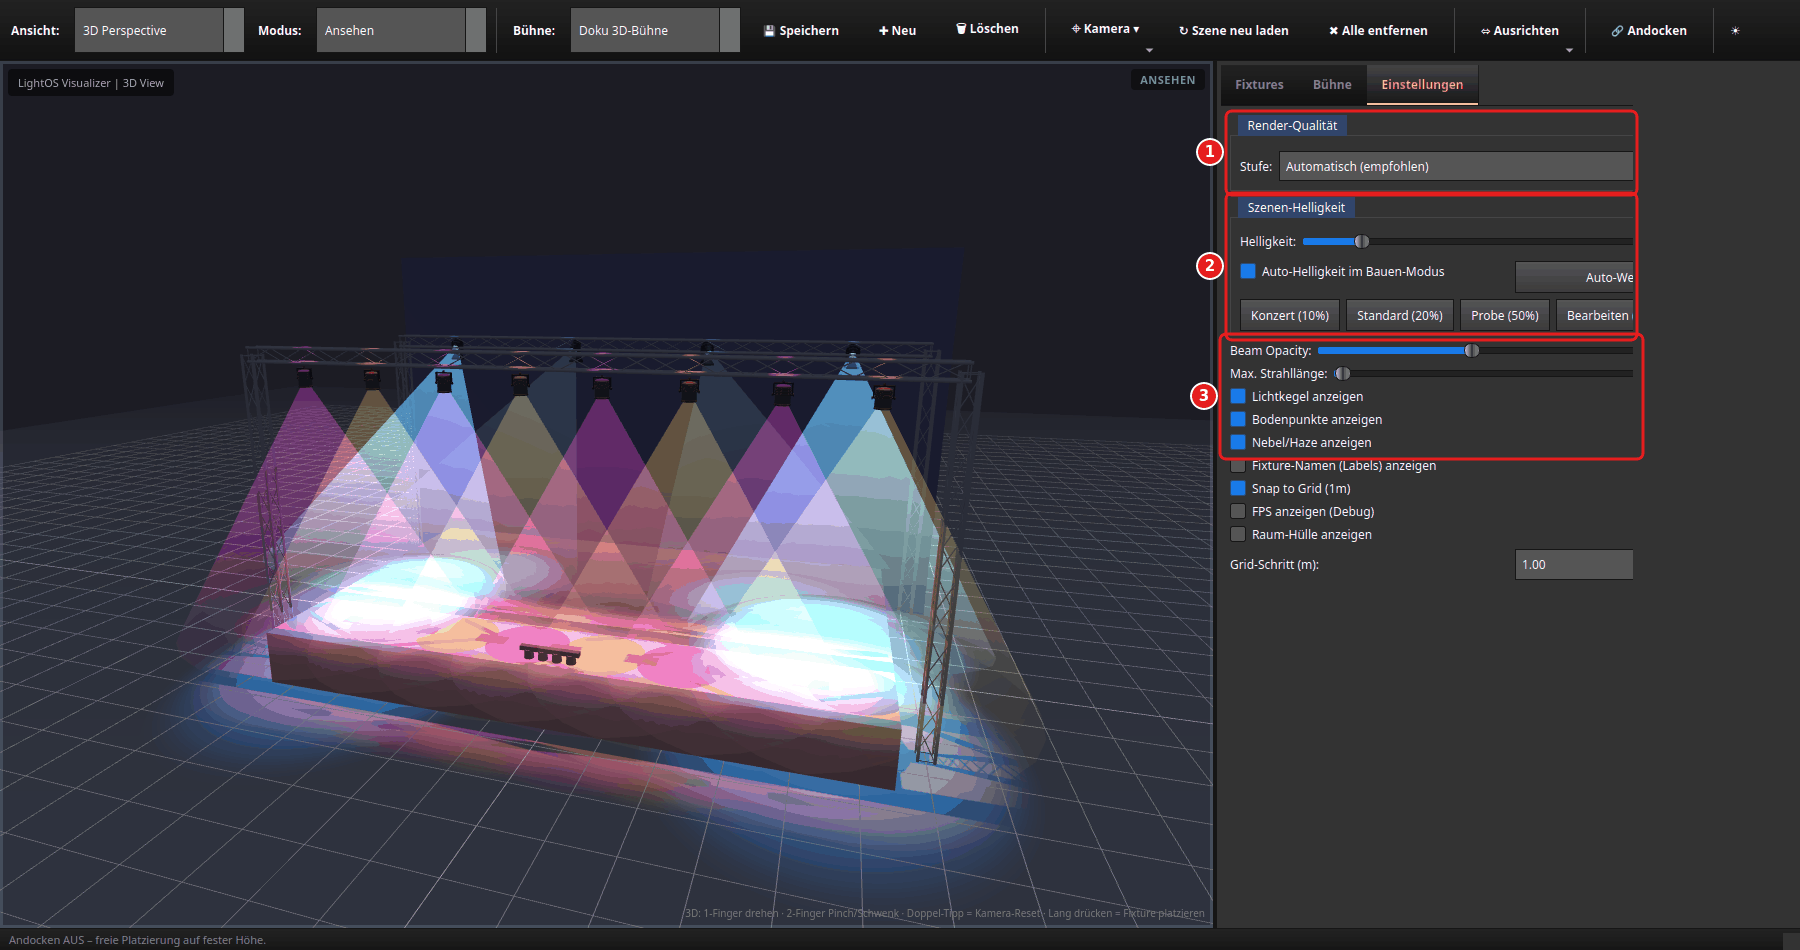
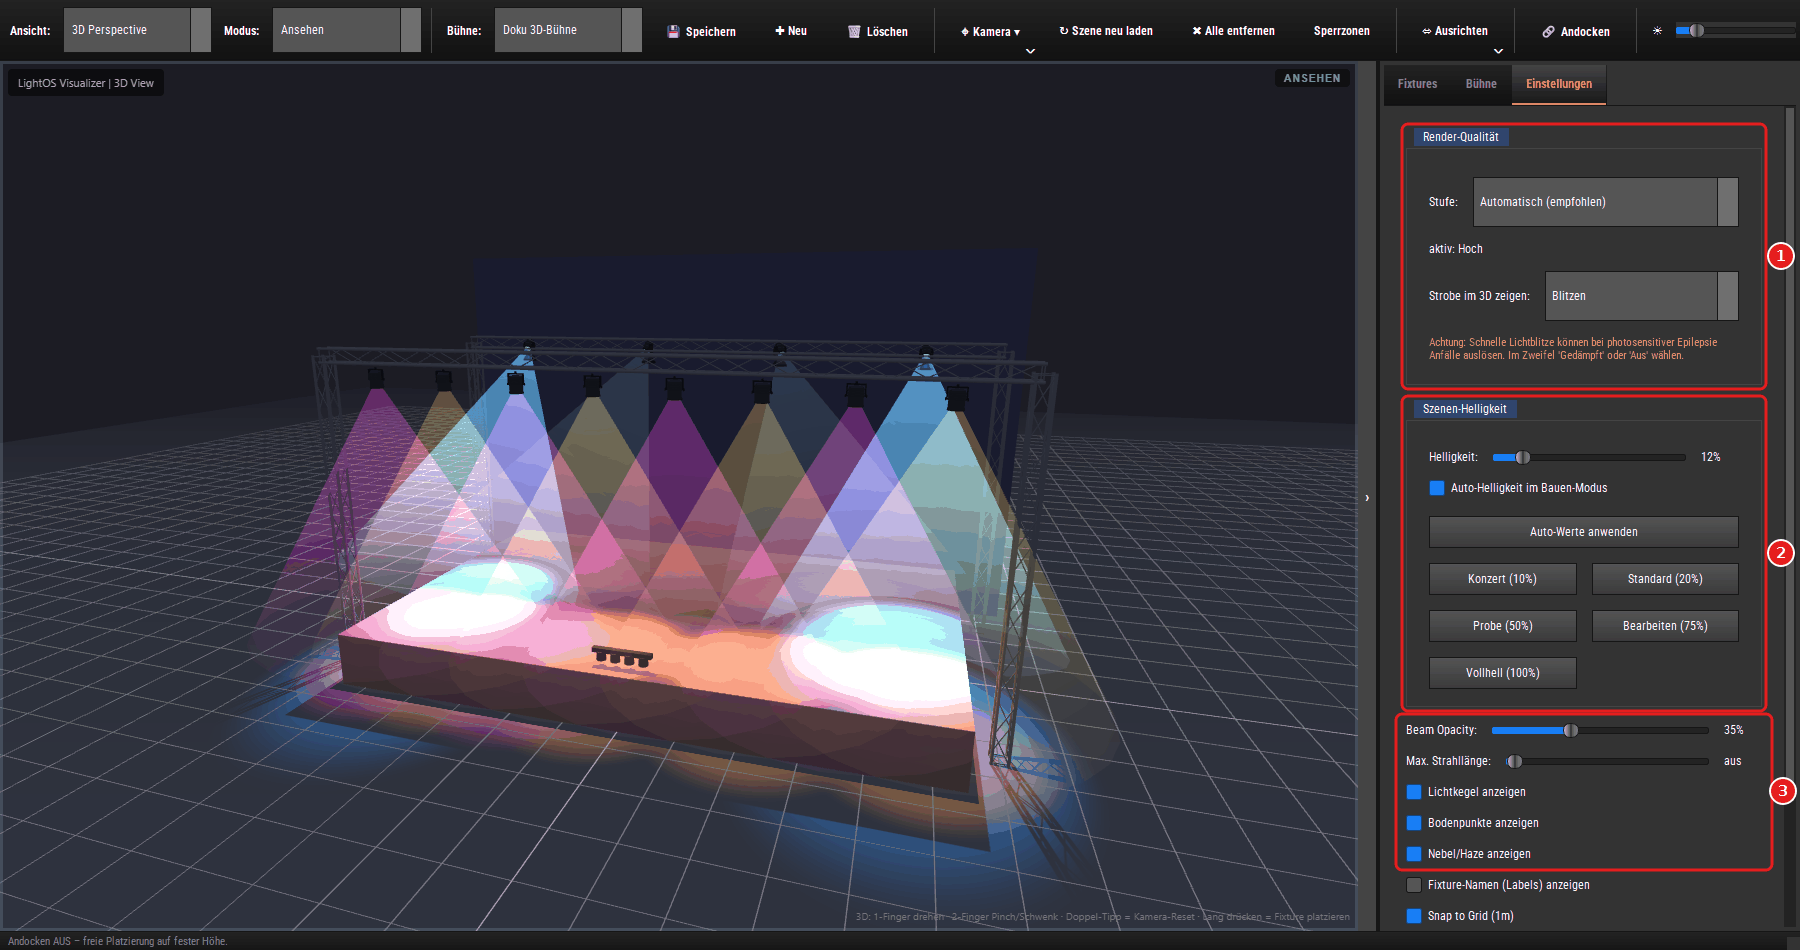
docs: 3D-Visualizer-Anleitung - Bilder am echten Bildschirm neu (DOC-73, 3D-Teil) (#1242)
* docs: 3D-Visualizer-Anleitung - Bilder am echten Bildschirm neu (DOC-73, 3D-Teil)

tools/anleitungsbilder.py 3d_buehne --bildschirm (Windows 11 x64, Radeon
RX 580, main c9e46cb0). Angefordert: 05_einstellungen, 02_buehne_bauen
(breite Namensspalte, VIZ-108/VIZ-75), 03_geraet_platzieren (Banner und
Werkzeugleiste ueberlappen nach VIZ-73 nicht mehr). Mitgenommen die
uebrigen vier Bilder derselben Anleitung: der alte Satz war laut
bilder.json mit der Ersatzschrift Noto Sans und Qt 6.11 entstanden, das
Manifest beschreibt den Satz mit einer Schrift (jetzt Roboto Condensed,
Qt 6.12). Alle sieben angesehen. Offen: (5) Bildbeleg Laengs-Falloff.

* docs: 3D-Anleitung - neues Bild 08_strahl_falloff mit Satz zum Strahlverlauf (DOC-73, VIZ-15)

Nach A (Tafel 02.11.): Bildbeleg Laengs-Falloff als neue Szene in der
3D-Anleitung. Ein einzelner Spot (offenes Farbrad) vor dunkler Szene,
schraeg von vorn: an der Linse hell, zum Boden hin schwaecher, darunter der
Lichtfleck. Teil D (Strahl-Optionen) erklaert den Verlauf in einem Satz:
bis etwa ein Viertel am Ende, auf jeder Qualitaetsstufe. Aufgenommen mit
anleitungsbilder.py 3d_buehne --nur 08_strahl_falloff --bildschirm.

---------

diff --git a/tools/anleitungsbilder/szenen_3d_buehne.py b/tools/anleitungsbilder/szenen_3d_buehne.py
@@ -560,6 +560,33 @@ def _b07(ui):
     return lbl
 
 
+# ── 8: Laengs-Falloff eines Strahls (VIZ-15, DOC-73) ────────────────────────
+# Ein einzelner Spot (Spot 1, hintere Traverse) mit offenem Farbrad vor dunkler
+# Szene, schraeg von vorn: der Kegel ist an der Linse voll und wird zum Boden
+# hin schwaecher (fixtures.js#beamFalloffTexture). Ein Spot statt eines Washs:
+# dessen breiter Kegel war bei hoher Deckkraft fast durchgehend weiss, der
+# Verlauf kaum zu sehen. Deckkraft wie in den anderen Bildern (35 %).
+
+# Spot 1 (x -1,5): die Sichtlinie von vorn rechts laeuft zwischen den Stuetzen
+# und unter den PARs der Front-Traverse durch (mit Spot 2 stand die rechte
+# vordere Stuetze mitten im Strahl).
+_KAM_FALLOFF = {"name": "Doku", "mode": "3D", "theta": 0.75, "phi": 1.45,
+                "radius": 11.0, "target": [-1.5, 3.2, -2.5]}
+
+
+def _v08(ui):
+    from anleitungsbilder.szenen_ausgabe_einrichten import frame_wie_ausgabe
+    _alles_grundstellung(ui)
+    _einstellung(ui, opacity=35, helligkeit=8, kegel=True, nebel=True, boden=True)
+    _farben(ui, intens=0, spot_intens=0, wash_intens=0)
+    s1, _s2 = ui.info["spots"]
+    ui.wert([s1], "intensity", 255)
+    ui.wert([s1], "color_wheel", 0)             # offen = weiss
+    frame_wie_ausgabe(ui)
+    _pan_tilt(ui, {s1: (128, 100)})
+    kamera(ui, _KAM_FALLOFF)
+
+
 _MAG, _AMB, _BLAU, _CYAN = (255, 0, 150), (255, 90, 0), (0, 60, 255), (0, 200, 255)
 _GIF_SCHRITTE = [
     # (Wash1, Wash2, Spot1, Spot2) je (pan, tilt), PAR-Farben, Wash-Farbe, Spot-Rad
@@ -593,4 +620,7 @@ SZENEN = [
           frames=[Frame(dauer_s=1.3, schritt=_gif_schritt(*s), dialog=_b07, warte_s=0.8)
                   for s in _GIF_SCHRITTE],
           titel="GIF: Moving Heads fahren, Farben wechseln"),
+    Szene("08_strahl_falloff", sektion="Bühne", vorher=_v08, dialog=_b07,
+          braucht_gpu=True, groesse=_GROESSE,
+          titel="Ein Spot von schräg vorn: Strahl an der Linse hell, zum Boden hin schwächer"),
 ]

diff --git a/backlog.d/DOC-73.md b/backlog.d/DOC-73.md
@@ -1,0 +1,5 @@
+ID: DOC-73
+Status: teils
+Status-Notiz: 3D-Bilder (1)–(3) und (5) am echten Bildschirm (ganzer Satz der 3D-Anleitung, neu 08_strahl_falloff); offen: Schichten-Schaubild der Prioritäten-Anleitung
+
+**3D-Teil (Sitzung D, 02.11.2026, Windows 11 x64, Radeon RX 580, `tools/anleitungsbilder.py 3d_buehne --bildschirm`, main c9e46cb0):** (1) `05_einstellungen.png`, (2) `02_buehne_bauen.png` (breite Namensspalte nach VIZ-108/VIZ-75) und (3) `03_geraet_platzieren.png` (Hinweis-Banner und Werkzeugleiste überlappen nach VIZ-73 nicht mehr) neu aufgenommen und angesehen. Mitgenommen: die übrigen vier Bilder derselben Anleitung (`01_uebersicht`, `04_kamera`, `06_top_down`, `07_moving_heads.gif`) — der alte Satz war laut `bilder.json` mit der Ersatzschrift Noto Sans und Qt 6.11 entstanden, das Manifest beschreibt den ganzen Satz mit einer Schrift; jetzt Roboto Condensed, Qt 6.12. (5) Bildbeleg Längs-Falloff (VIZ-15) nach A (Tafel 02.11. 20:17Z) als neue Szene `08_strahl_falloff` in `tools/anleitungsbilder/szenen_3d_buehne.py`: ein einzelner Spot mit offenem Farbrad vor dunkler Szene, schräg von vorn — an der Linse hell, zum Boden hin schwächer, darunter der Lichtfleck; in der Anleitung (Teil D, Strahl-Optionen) ein Satz dazu (Verlauf bis etwa ein Viertel, auf jeder Qualitätsstufe). Zwei Vorversuche verworfen: ein Wash bei 60 % Deckkraft war fast durchgehend weiß, mit Spot 2 stand die vordere rechte Stütze im Strahl. Offen bleibt nur das Schichten-Schaubild der Prioritäten-Anleitung.

diff --git a/docs/anleitung_3d_visualizer_2026/ANLEITUNG_3D_BUEHNE.md b/docs/anleitung_3d_visualizer_2026/ANLEITUNG_3D_BUEHNE.md
@@ -250,6 +250,13 @@ und schwenkst/zoomst mit zwei.
    - **Max. Strahllänge** — deckelt die sichtbare Länge der Kegel (0 = aus). Hilft bei
      waagerecht oder nach oben zeigenden Köpfen, deren Strahl nie auf den Boden trifft.
      Ändert nichts an der DMX-Ausgabe.
+   - **Verlauf entlang des Strahls:** Jeder Lichtkegel ist an der Linse am hellsten und
+     wird zum Boden hin schwächer, wie Licht im Dunst. Ganz verschwindet er nicht: Am
+     Ende bleibt etwa ein Viertel, damit du siehst, wo der Strahl auftrifft. Das gilt auf
+     jeder Qualitätsstufe.
+
+     ![Ein einzelner Spot von schräg vorn: an der Linse hell, zum Boden hin schwächer, darunter der Lichtfleck](img/08_strahl_falloff.png)
+
    - **Laser** zeichnen keinen Kegel, sondern einen Fächer aus fünf dünnen Strahlen,
      die 25 m weit nach vorn über die Bühne ins Publikum reichen. Sie folgen Farbe und
      Helligkeit aus dem DMX, hängen aber bewusst **nicht** an Beam Opacity und Max.

diff --git a/changelog.d/2026-11-02-DOC-73.md b/changelog.d/2026-11-02-DOC-73.md
@@ -1,0 +1,5 @@
+### 2026-11-02 — Bilder der 3D-Visualizer-Anleitung neu aufgenommen (DOC-73)
+
+#### Geändert
+
+- **3D-Visualizer-Anleitung:** Alle sieben Bilder sind am echten Bildschirm neu aufgenommen – mit der richtigen Schrift und dem aktuellen Stand: Bühne bauen mit lesbarer Namensspalte, Gerät platzieren ohne Überlappung von Hinweis und Werkzeugleiste, Einstellungen, Kamera, Draufsicht und das Moving-Head-GIF. Neu ist ein Bild, das zeigt, wie ein Lichtstrahl an der Linse am hellsten ist und zum Boden hin schwächer wird – mit einem Satz dazu im Abschnitt über die Strahl-Einstellungen.
